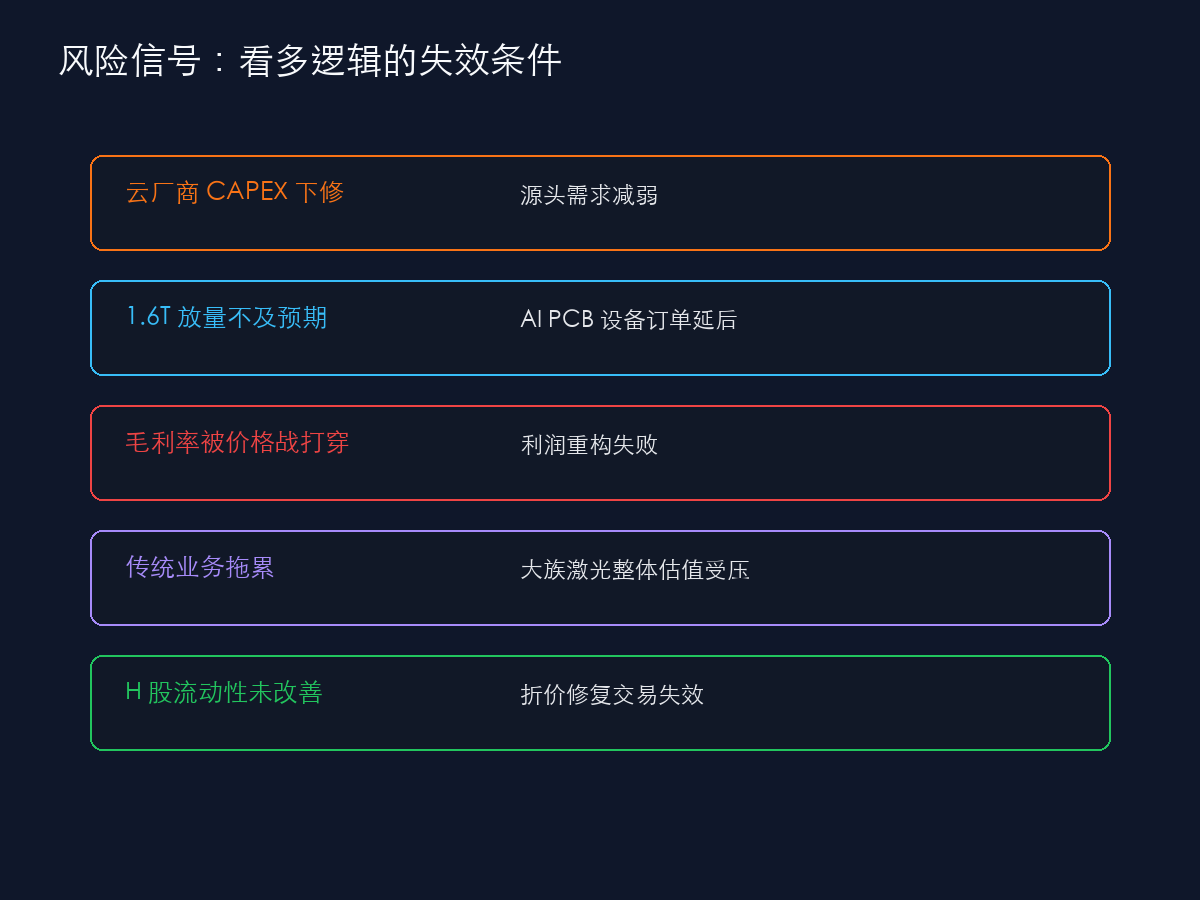
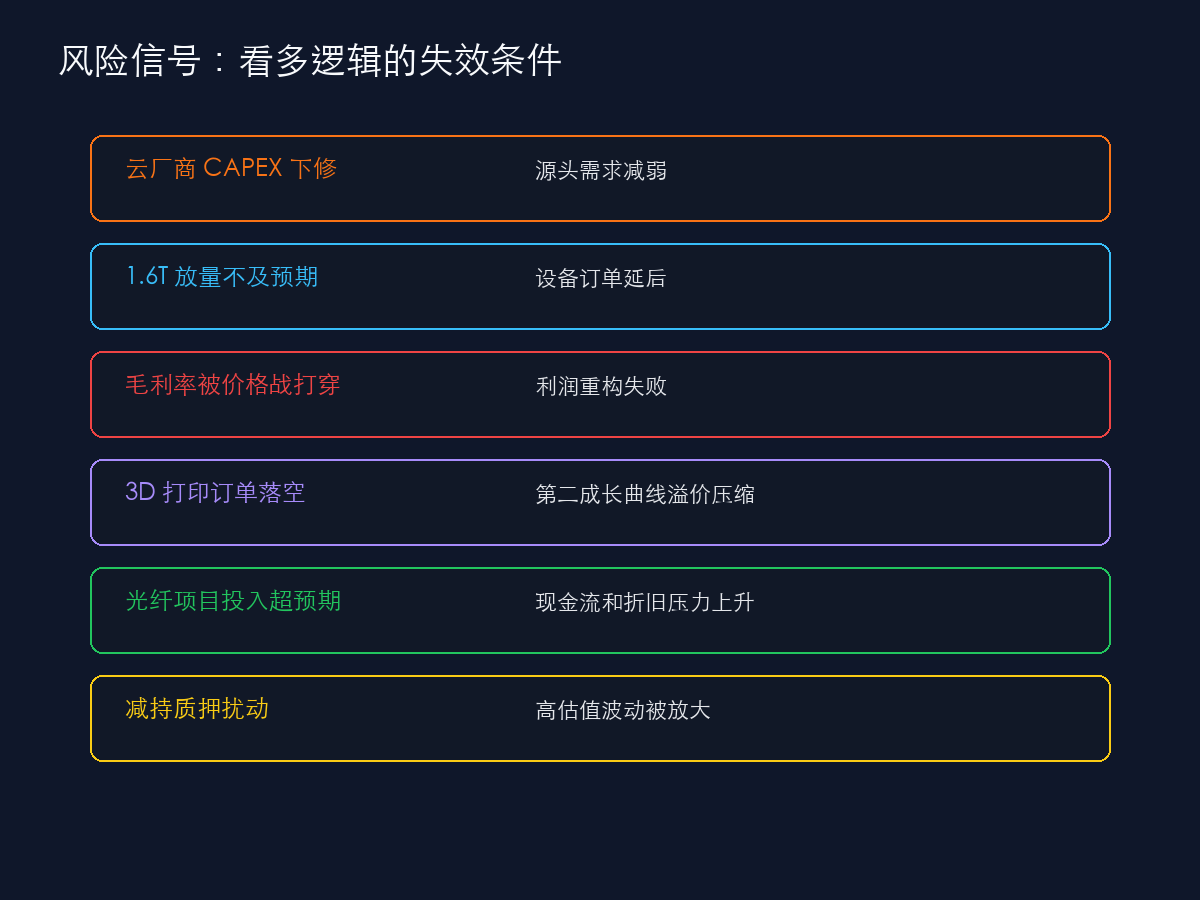
Expand Hans Laser investment analysis

diff --git a/2026/ai-pcb-equipment-hans-laser-hans-cnc-investment-logic/index.html b/2026/ai-pcb-equipment-hans-laser-hans-cnc-investment-logic/index.html
@@ -1,9 +1,9 @@
 <!DOCTYPE html><html lang="zh-CN"><head>
   <meta charset="utf-8"><meta name="viewport" content="width=device-width,initial-scale=1,viewport-fit=cover">
   <meta name="generator" content="Custom static archive"><title>AI PCB 设备景气再上修：大族激光、大族数控与 1.6T 光模块的物理瓶颈 - zcxGGmu's Blog</title>
-  <meta name="description" content="当市场追逐大模型和 GPU 时，真正决定算力能否落地的物理瓶颈，正在转向 AI PCB、类载板和超快激光钻孔设备。大族数控的利润结构重构、大族激光的 AI+苹果+液冷三重催化，以及 H 股折价修复，是这条交易主线的核心。"><meta name="author" content="zcxGGmu"><meta name="theme-color" content="#f8fafc">
+  <meta name="description" content="当市场追逐大模型和 GPU 时，真正决定算力能否落地的物理瓶颈，正在转向 AI PCB、类载板和超快激光钻孔设备。大族数控的利润结构重构、大族激光的 AI+苹果+液冷三重催化，以及大族激光经营修复、机构上修和估值约束，是这条交易主线的核心。"><meta name="author" content="zcxGGmu"><meta name="theme-color" content="#f8fafc">
   <meta property="og:url" content="https://zcxggmu.github.io/2026/ai-pcb-equipment-hans-laser-hans-cnc-investment-logic/"><meta property="og:site_name" content="zcxGGmu's Blog">
-  <meta property="og:title" content="AI PCB 设备景气再上修：大族激光、大族数控与 1.6T 光模块的物理瓶颈"><meta property="og:description" content="当市场追逐大模型和 GPU 时，真正决定算力能否落地的物理瓶颈，正在转向 AI PCB、类载板和超快激光钻孔设备。大族数控的利润结构重构、大族激光的 AI+苹果+液冷三重催化，以及 H 股折价修复，是这条交易主线的核心。"><meta property="og:locale" content="zh_cn"><meta property="og:type" content="article">
+  <meta property="og:title" content="AI PCB 设备景气再上修：大族激光、大族数控与 1.6T 光模块的物理瓶颈"><meta property="og:description" content="当市场追逐大模型和 GPU 时，真正决定算力能否落地的物理瓶颈，正在转向 AI PCB、类载板和超快激光钻孔设备。大族数控的利润结构重构、大族激光的 AI+苹果+液冷三重催化，以及大族激光经营修复、机构上修和估值约束，是这条交易主线的核心。"><meta property="og:locale" content="zh_cn"><meta property="og:type" content="article">
   <meta name="twitter:card" content="summary_large_image"><link rel="canonical" href="https://zcxggmu.github.io/2026/ai-pcb-equipment-hans-laser-hans-cnc-investment-logic/">
   <link rel="icon" type="image/png" sizes="16x16" href="/images/favicon-16.png"><link rel="icon" type="image/png" sizes="32x32" href="/images/favicon-32.png"><link rel="apple-touch-icon" sizes="180x180" href="/images/favicon-180.png"><link rel="icon" type="image/png" sizes="192x192" href="/images/favicon-192.png">
   <script>(function(){var key="blog-theme";var sidebarKey="blog-sidebar-collapsed";var theme="";try{theme=localStorage.getItem(key)||""}catch(_){}if(theme!=="light"&&theme!=="dark"){theme=window.matchMedia&&window.matchMedia("(prefers-color-scheme: dark)").matches?"dark":"light";}document.documentElement.dataset.theme=theme;document.documentElement.style.colorScheme=theme;try{if(localStorage.getItem(sidebarKey)==="1") document.documentElement.classList.add("sidebar-collapsed");}catch(_){}})();</script>
@@ -16,7 +16,7 @@
 <div id="drawer-overlay" class="single-column-drawer-overlay" style="display:none" role="button" tabindex="0" aria-label="关闭菜单" onclick="toggleDrawer()" onkeydown="(event.key===&quot;Enter&quot;||event.key===&quot; &quot;||event.key===&quot;Escape&quot;)&amp;&amp;(event.preventDefault(),toggleDrawer())"></div>
 <nav id="navBar" class="navbar sticky-top navbar-light single-column-nav-container"><div id="navBackground" class="nav-background"></div><div class="container container-narrow nav-content"><button id="nav_dropdown_btn" class="nav-dropdown-toggle" type="button" aria-label="打开菜单" aria-expanded="false" onclick="toggleDrawer()"><span class="nav-menu-symbol" aria-hidden="true">☰</span></button><a id="navTitle" class="navbar-brand" href="/">zcxGGmu's Blog</a><button class="theme-toggle theme-toggle-mobile" type="button" data-theme-toggle title="切换深色模式" aria-label="切换深色模式" aria-pressed="false"><span class="material-icons theme-toggle-icon" aria-hidden="true">dark_mode</span></button></div></nav>
 <div class="single-column-header-container" id="pageHead"><a href="/"><img class="mobile-site-avatar" src="/images/avatar.png" alt="zcxGGmu" loading="lazy"><div class="single-column-header-title">zcxGGmu's Blog</div><div class="single-column-header-subtitle">心无挂碍，无挂碍故，无有恐怖</div></a></div>
-<div id="content"><div id="streamContainer" class="stream-container" role="main"><div id="main-content"></div><div class="post-list-container post-list-container-shadow"><article class="post"><div class="post-head-wrapper" style="background-image:url('/images/posts/ai-pcb-equipment-hans-laser-hans-cnc-investment-logic/cover.png')"><div class="post-title">AI PCB 设备景气再上修：大族激光、大族数控与 1.6T 光模块的物理瓶颈<div class="post-subtitle">当市场追逐大模型和 GPU 时，真正决定算力能否落地的物理瓶颈，正在转向 AI PCB、类载板和超快激光钻孔设备。大族数控的利润结构重构、大族激光的 AI+苹果+液冷三重催化，以及 H 股折价修复，是这条交易主线的核心。</div><div class="post-meta"><time itemprop="datePublished">2026-06-26</time>&nbsp;&nbsp;<span class="meta-icon" aria-hidden="true">▣</span> <a href="/categories/%E6%8A%95%E8%B5%84/">投资</a>&nbsp;&nbsp;<span class="meta-icon" aria-hidden="true">◇</span> <a href="/tags/AI%E7%A1%AC%E4%BB%B6/">AI硬件</a>&nbsp;<a href="/tags/PCB%E8%AE%BE%E5%A4%87/">PCB设备</a>&nbsp;<a href="/tags/%E5%A4%A7%E6%97%8F%E6%BF%80%E5%85%89/">大族激光</a>&nbsp;<a href="/tags/%E5%A4%A7%E6%97%8F%E6%95%B0%E6%8E%A7/">大族数控</a>&nbsp;<a href="/tags/1.6T%E5%85%89%E6%A8%A1%E5%9D%97/">1.6T光模块</a>&nbsp;<a href="/tags/%E6%BF%80%E5%85%89%E9%92%BB%E5%AD%94/">激光钻孔</a>&nbsp;<a href="/tags/%E8%8B%B9%E6%9E%9C%E4%BA%A7%E4%B8%9A%E9%93%BE/">苹果产业链</a>&nbsp;<a href="/tags/%E6%B6%B2%E5%86%B7/">液冷</a>&nbsp;<a href="/tags/%E6%B8%AF%E8%82%A1%E6%8A%98%E4%BB%B7/">港股折价</a>&nbsp;<a href="/tags/%E6%8A%95%E8%B5%84%E5%88%86%E6%9E%90/">投资分析</a>&nbsp;&nbsp;<span class="meta-icon" aria-hidden="true">◷</span> 16 min</div></div></div><div class="post-body-wrapper"><div class="post-body" v-pre>
+<div id="content"><div id="streamContainer" class="stream-container" role="main"><div id="main-content"></div><div class="post-list-container post-list-container-shadow"><article class="post"><div class="post-head-wrapper" style="background-image:url('/images/posts/ai-pcb-equipment-hans-laser-hans-cnc-investment-logic/cover.png')"><div class="post-title">AI PCB 设备景气再上修：大族激光、大族数控与 1.6T 光模块的物理瓶颈<div class="post-subtitle">当市场追逐大模型和 GPU 时，真正决定算力能否落地的物理瓶颈，正在转向 AI PCB、类载板和超快激光钻孔设备。大族数控的利润结构重构、大族激光的 AI+苹果+液冷三重催化，以及大族激光经营修复、机构上修和估值约束，是这条交易主线的核心。</div><div class="post-meta"><time itemprop="datePublished">2026-06-26</time>&nbsp;&nbsp;<span class="meta-icon" aria-hidden="true">▣</span> <a href="/categories/%E6%8A%95%E8%B5%84/">投资</a>&nbsp;&nbsp;<span class="meta-icon" aria-hidden="true">◇</span> <a href="/tags/AI%E7%A1%AC%E4%BB%B6/">AI硬件</a>&nbsp;<a href="/tags/PCB%E8%AE%BE%E5%A4%87/">PCB设备</a>&nbsp;<a href="/tags/%E5%A4%A7%E6%97%8F%E6%BF%80%E5%85%89/">大族激光</a>&nbsp;<a href="/tags/%E5%A4%A7%E6%97%8F%E6%95%B0%E6%8E%A7/">大族数控</a>&nbsp;<a href="/tags/1.6T%E5%85%89%E6%A8%A1%E5%9D%97/">1.6T光模块</a>&nbsp;<a href="/tags/%E6%BF%80%E5%85%89%E9%92%BB%E5%AD%94/">激光钻孔</a>&nbsp;<a href="/tags/%E8%8B%B9%E6%9E%9C%E4%BA%A7%E4%B8%9A%E9%93%BE/">苹果产业链</a>&nbsp;<a href="/tags/%E6%B6%B2%E5%86%B7/">液冷</a>&nbsp;<a href="/tags/3D%E6%89%93%E5%8D%B0/">3D打印</a>&nbsp;<a href="/tags/%E5%85%89%E7%BA%A4%E9%A2%84%E5%88%B6%E6%A3%92/">光纤预制棒</a>&nbsp;<a href="/tags/%E7%A0%94%E6%8A%A5%E6%A2%B3%E7%90%86/">研报梳理</a>&nbsp;<a href="/tags/%E6%B8%AF%E8%82%A1%E6%8A%98%E4%BB%B7/">港股折价</a>&nbsp;<a href="/tags/%E6%8A%95%E8%B5%84%E5%88%86%E6%9E%90/">投资分析</a>&nbsp;&nbsp;<span class="meta-icon" aria-hidden="true">◷</span> 28 min</div></div></div><div class="post-body-wrapper"><div class="post-body" v-pre>
 <p><img src="/images/posts/ai-pcb-equipment-hans-laser-hans-cnc-investment-logic/cover.png" alt="AI PCB 设备景气再上修：大族激光、大族数控与 1.6T 光模块的物理瓶颈"></p>
 <p>科技板块最热闹的舞台，仍然被大语言模型、万亿参数、GPU、英伟达新芯片和算力集群占据。表面上看，所有资金都在追逐这些聚光灯下的明星资产；但如果把视角往产业链上游移动，会发现真正聪明的筹码并没有只挤在舞台中央，而是在寻找那些给大模型搭建舞台的人。</p>
 <p>AI 交易的下一层预期差，藏在更不起眼的制造环节里：高阶 PCB、类载板、1.6T 光模块、超快激光钻孔设备，以及能解决微米级加工瓶颈的高端电子装备。市场并不是突然对“打孔机”感兴趣，而是因为算力要落地，最终必须经过电路板、光模块和精密制造这些物理入口。</p>
@@ -52,7 +52,7 @@
 <p>传统机械钻孔设备单价大约 50 万元人民币，毛利率通常在 20% 左右，本质上是偏成熟、偏竞争、偏制造效率的辛苦钱。超快激光钻孔设备完全不同，单台价格可以提升到 500 万到 600 万元人民币，价格带约为传统设备的 10 倍，毛利率则可达到 50% 左右。</p>
 <p><img src="/images/posts/ai-pcb-equipment-hans-laser-hans-cnc-investment-logic/margin-shift.png" alt="机械钻孔设备与超快激光钻孔设备利润结构对比"></p>
 <p>这就是财务模型上的“换公司”。如果收入仍然以传统机械设备为主，估值只能按成熟设备公司给；如果未来收入越来越多来自高壁垒、高单价、高毛利的 AI 相关设备，市场就会按高端科技制造重新定价。</p>
-<p>当然，高毛利一定会引来竞争。中国制造业里，任何 50% 毛利的赛道都不可能长期无人问津。真正的问题是：竞争者能不能快速复制稳定出货能力。超快激光设备的壁垒在于底层 Know-how、客户验证、工艺窗口、控制系统和长期试错，这些都不是短期资本开支可以迅速堆出来的。</p>
+<p>当然，高毛利往往会引来竞争。中国制造业里，任何 50% 毛利的赛道都不可能长期无人问津。真正的问题是：竞争者能不能快速复制稳定出货能力。超快激光设备的壁垒在于底层 Know-how、客户验证、工艺窗口、控制系统和长期试错，这些都不是短期资本开支可以迅速堆出来的。</p>
 
 <h2 id="大族数控">大族数控：AI 相关设备占比提升后的再定价</h2>
 <p>大族数控的变化，可以用一个指标来理解：AI 相关设备占 PCB 设备收入的比例。公开研报摘要里提到，AI 相关设备占大族数控 PCB 设备总收入的比例，有望从 2024 年不到 10% 提升到 2027 年约 70%。</p>
@@ -68,6 +68,74 @@
 <p>第三条催化是液冷制造。AI 服务器功耗不断上升，B 系列、后续高功率 GPU 和高密度机柜推动液冷成为新一代数据中心的刚性需求。液冷冷板内部微通道需要高精度无缝焊接，任何砂眼、虚焊或泄漏都可能在昂贵机柜里造成灾难。大族激光在精密激光焊接上的积累，使其有机会切入液冷冷板等高精度制造环节。</p>
 <p>这三条线叠加后，大族激光不只是跟随 PCB 设备景气，而是形成 AI 硬件制造、消费电子创新和数据中心热管理的复合暴露。花旗给出 177 元人民币目标价，并用约 55 倍 2027 年预期市盈率作为估值参考，本质上是在押注类似上一轮苹果超级周期的估值重估重演。</p>
 
+<h2 id="公司画像">公司画像：平台型激光装备集团，而不是单一 PCB 弹性</h2>
+<p><img src="/images/posts/ai-pcb-equipment-hans-laser-hans-cnc-investment-logic/hans-laser-business-map.png" alt="大族激光业务地图"></p>
+<p>研究大族激光，不能只把它看成“大族数控的控股平台”，也不能只看成普通激光加工设备公司。公司 2025 年年报把自身定位为智能制造装备及关键器件供应商，能力覆盖基础器件、整机设备到工艺解决方案，业务横跨信息产业设备、新能源设备、半导体设备和通用工业激光加工设备。</p>
+<p>这种平台型结构带来两个完全相反的投资含义。正面看，大族激光可以同时暴露在 AI PCB、消费电子创新、液冷焊接、锂电海外扩产、半导体设备国产化等多条产业链上；负面看，它也不是纯粹的 AI PCB 标的，传统业务、资本开支、股权投资收益、减值、控股股东减持和市场风险偏好都会影响整体估值。</p>
+<p>从 2025 年收入结构看，信息产业设备是最重要的增长引擎，收入约 82.45 亿元，同比增长 50.28%；其中消费电子设备约 24.72 亿元，同比增长 15.33%，PCB 设备约 57.73 亿元，同比增长 72.68%。新能源设备收入约 23.61 亿元，同比增长 53.36%，其中锂电设备约 22.56 亿元，同比增长 49.65%；半导体设备及泛半导体相关收入约 20.41 亿元，同比增长 15.00%。这组数据说明，市场交易 AI PCB 并不是无源之水，PCB 设备已经是公司收入修复中最亮的分部之一。</p>
+<p>因此，大族激光的核心问题不是“有没有 AI 概念”，而是 2026-2028 年能否把 AI PCB、3D 打印、液冷和半导体设备的订单转化为持续利润，同时避免新能源设备和传统业务周期拖累集团估值。</p>
+
+<h2 id="财务修复">财务修复：2025 扣非修复，2026Q1 进入高增长验证期</h2>
+<p><img src="/images/posts/ai-pcb-equipment-hans-laser-hans-cnc-investment-logic/hans-laser-financial-dashboard.png" alt="大族激光财务修复仪表盘"></p>
+<p>2025 年，大族激光实现营业收入 187.59 亿元，同比增长 27.00%；归母净利润 11.90 亿元，同比下降 29.77%；扣非归母净利润 8.10 亿元，同比增长 82.28%；经营活动现金流净额 14.69 亿元，同比增长 30.48%。表面看，归母利润下滑会让人迟疑，但扣非利润和经营现金流的修复更能解释机构为什么在 2026 年密集覆盖。</p>
+<p>归母净利润下降，主要让投资者意识到公司过去利润中有非经常性因素和股权处置收益影响，不能简单按表观归母利润外推。扣非利润增长 82.28%，则说明主营经营质量在修复；经营现金流增长 30.48%，说明修复不只是会计利润。</p>
+<p>2026 年一季报进一步强化了这个方向。公司 2026Q1 营业收入 51.35 亿元，同比增长 74.44%；归母净利润 3.54 亿元，同比增长 116.59%；扣非归母净利润 4.08 亿元，同比增长 467.81%。如果只看单季，同比基数、订单交付节奏和费用确认都会造成波动，但这一季度至少说明两点：第一，收入恢复已经进入较强交付期；第二，扣非利润的弹性显著强于收入弹性，说明业务结构和费用摊薄正在改善。</p>
+<p>需要同时看到的约束是，2026Q1 经营活动现金流净额约为 -7.16 亿元。设备公司在订单高增长阶段往往会出现备货、应收、预付和项目验收错配，现金流短期承压并不罕见，但如果这种压力连续多个季度扩大，就会削弱利润质量。因此，后续跟踪不能只看收入和利润，也要看合同负债、存货、应收账款、回款和经营现金流。</p>
+<p>截至 2026 年 6 月 26 日收盘，大族激光股价 151.27 元，单日高点 168.08 元、低点 151.00 元，成交额约 199.61 亿元；第三方行情页面显示总市值约 1557.5 亿元，市盈率口径在 110 倍以上，市净率约 6.4 倍。这个估值已经不再便宜，市场显然不是按 2025 年静态利润给价，而是在提前折现 2026-2028 年 AI PCB、3D 打印和液冷的成长。</p>
+
+<h2 id="机构研报">机构研报：最近两个月的国内券商共识与分歧</h2>
+<p><img src="/images/posts/ai-pcb-equipment-hans-laser-hans-cnc-investment-logic/hans-laser-broker-matrix.png" alt="大族激光近期香港内机构研报矩阵"></p>
+<p>2026 年 4 月以来，大族激光的国内机构覆盖明显升温。公开可见的研报摘要显示，天风证券、招商证券、东吴证券、国海证券、长江证券、中邮证券、中金公司、国盛证券、申万宏源、浙商证券、方正证券、中信建投、国泰海通等机构均围绕公司发布报告或更新观点，评级大多落在买入、强烈推荐、推荐、增持区间。</p>
+<p>这些报告的共同主线非常集中：AI 算力推动 PCB 设备升级，消费电子大客户创新周期与 3D 打印提供第二成长曲线，液冷和半导体设备提供可选项。分歧主要不在方向，而在利润弹性和估值兑现速度。</p>
+<table>
+<thead><tr><th>机构</th><th>日期</th><th>评级</th><th>公开可见盈利预测</th><th>核心观点</th></tr></thead>
+<tbody>
+<tr><td>天风证券</td><td>2026-06-16</td><td>增持</td><td>2026-2028E EPS 2.53 / 3.91 / 5.20 元</td><td>激光平台型龙头，AI 算力与苹果 3D 打印双轮驱动。</td></tr>
+<tr><td>招商证券</td><td>2026-05-27</td><td>维持强烈推荐</td><td>公开摘要未披露完整 EPS</td><td>战略收购液冷方案商安腾创新，算力基础设施布局加深。</td></tr>
+<tr><td>东吴证券</td><td>2026-05-20</td><td>买入，首次覆盖</td><td>2026-2028E EPS 2.21 / 3.31 / 4.25 元</td><td>PCB 设备和 3D 打印贡献新成长活力。</td></tr>
+<tr><td>国海证券</td><td>2026-05-07</td><td>买入</td><td>2026-2028E EPS 2.43 / 3.53 / 4.46 元</td><td>2026Q1 业绩高速增长，消费电子与算力业务共振。</td></tr>
+<tr><td>中邮证券</td><td>2026-04-23</td><td>买入，首次覆盖</td><td>2026-2028E EPS 2.25 / 3.20 / 4.57 元</td><td>信息产业设备、AI PCB、消费电子、新能源与半导体设备共同支撑。</td></tr>
+<tr><td>中金公司</td><td>2026-04-21</td><td>买入</td><td>2026-2027E EPS 2.23 / 3.16 元</td><td>一季度扣非利润略超预期，多业务受益 AI 浪潮。</td></tr>
+<tr><td>申万宏源</td><td>2026-04-21</td><td>买入</td><td>2026-2028E EPS 2.41 / 3.45 / 4.43 元</td><td>扣非利润修复，持续看好 AI PCB 与 3C 高增。</td></tr>
+<tr><td>国泰海通</td><td>2026-04-13</td><td>买入</td><td>2026-2028E EPS 2.27 / 3.38 / 4.02 元</td><td>激光龙头乘势而上，AI 开启增长新引擎。</td></tr>
+</tbody>
+</table>
+<p>从可见预测看，机构对 2026 年归母净利润的预期大致落在 18 亿元到 26 亿元区间，2028 年高端预期超过 50 亿元。这个分歧很关键：如果只兑现低端预测，当前估值会显得偏贵；如果 AI PCB、3D 打印和液冷同步兑现，市场才有理由继续用高成长设备股的估值体系定价。</p>
+<p>因此，券商共识可以作为景气度证据，但不能直接当成买入理由。真正要验证的是三件事：订单是否进入报表，毛利率是否随产品结构改善，现金流是否跟上利润增长。</p>
+
+<h2 id="海外证据">海外证据：花旗直接上修，全球机构更多验证产业链</h2>
+<p><img src="/images/posts/ai-pcb-equipment-hans-laser-hans-cnc-investment-logic/hans-laser-overseas-evidence.png" alt="海外机构与全球行业证据"></p>
+<p>海外机构对大族激光的直接覆盖，公开可见材料并不算多。相对清晰的是花旗。公开摘要显示，花旗在 2026 年 6 月下旬把大族激光目标价由 155 元上调至 177 元，并维持买入评级；更早的 6 月摘要中，花旗也曾把目标价从 103 元上调至 155 元。花旗的逻辑与本文主线一致：AI PCB 设备仍处在结构性上行早期，1.6T 光模块推动高端类载板需求，超快激光钻孔设备供应紧张，海外供应商产能约束为国内设备商创造外溢机会。</p>
+<p>除花旗外，美银、高盛、摩根士丹利等机构更容易找到的是产业链层面的公开证据，而不是大族激光的直接公司报告。这个区别很重要：海外机构的行业证据可以增强产业方向的可信度，但不能直接替代公司订单和财务验证。</p>
+<p>摩根士丹利在公开行业摘要中把关注点从光模块本体进一步推向光模块内的 PCB，强调 800G、1.6T、3.2T 升级会推高 PCB 单价和技术门槛。Prismark 的 2026 年公开更新显示，全球裸板 PCB 市场从 2024 年约 736 亿美元增长到 2025 年约 858 亿美元，驱动因素包括 AI 服务器、高速网络和先进封装基板。TrendForce 相关摘要预计 AI 光收发模块市场将从 2025 年约 165 亿美元增长到 2026 年约 260 亿美元。LightCounting 也指出 AI 集群光学需求将在 2024-2026 年显著扩张。</p>
+<p>这些材料共同指向同一个产业事实：AI 基础设施不是只买 GPU，它会持续拉动光模块、PCB、封装、散热和精密加工设备。大族激光的机会就在于，它处在这些物理制造环节的交汇处。</p>
+<p>液冷方向也有类似证据。高密度 AI 机柜需要液冷来提高算力密度并降低空间压力，第三方市场机构预计数据中心液冷市场在 2026-2033 年仍有较高复合增长。大族激光通过安腾创新切入液冷方案，逻辑上补齐了从激光焊接设备到数据中心热管理制造的想象空间。不过，这条线仍处在需要订单和利润验证的阶段，不能把行业空间直接等同于公司利润。</p>
+
+<h2 id="光纤项目">光纤项目：光纤及预制棒项目是可选项，不是短期利润锚</h2>
+<p><img src="/images/posts/ai-pcb-equipment-hans-laser-hans-cnc-investment-logic/hans-laser-fiber-project.png" alt="大族激光光纤及预制棒项目分析"></p>
+<p>2026 年 6 月 26 日，大族激光公告控股子公司杭州永通智造与张家港大族拟在张家港投资建设光纤及预制棒项目，总投资不超过 25.20 亿元，其中一期 15.20 亿元、二期 10.00 亿元。项目规划用地约 172 亩，一期拟形成 1200 吨预制棒/合成石英和 3600 万芯公里通信光纤产能，产品包含空芯光纤；二期拟新增 800 吨预制棒/合成石英和 2400 万芯公里通信光纤产能。</p>
+<p>从产业位置看，空芯光纤、预制棒、通信光纤与 AI 数据中心互连、高速通信和光网络升级存在潜在相关性。如果未来低时延、高带宽数据中心网络继续扩张，相关材料和光通信基础环节可能出现新机会。</p>
+<p>但投资分析必须把节奏说清楚。公司公告同时披露，2025 年光纤业务收入约 4070.61 万元，占公司总收入 0.22%，利润约为 -6927.96 万元。也就是说，这个项目不是当前利润的核心来源，而是公司为未来光通信材料和光纤技术做的长期布局。25.20 亿元投资规模不小，短期更可能体现为资本开支、建设周期和不确定性，而不是立刻增厚利润。</p>
+<p>因此，对光纤及预制棒项目应采用“期权估值”而不是“业绩估值”。如果后续出现明确客户、产能爬坡、良率改善、空芯光纤订单和盈利拐点，它会成为公司新的成长叙事；如果建设进度、需求或成本不及预期，则可能成为现金流和折旧压力。</p>
+
+<h2 id="投资价值">投资价值：四条成长线与两条估值约束</h2>
+<p><img src="/images/posts/ai-pcb-equipment-hans-laser-hans-cnc-investment-logic/hans-laser-investment-thesis.png" alt="大族激光投资价值框架"></p>
+<p>综合公司公告、财务数据和机构观点，大族激光的投资价值可以拆成四条成长线。</p>
+<p>第一条是 AI PCB 设备。它是当前确定性最高、机构共识最强的主线。AI 服务器、1.6T 光模块、高阶 PCB 和类载板共同推动超快激光钻孔、检测、曝光、成型等设备需求上修，大族数控和大族激光均受益。</p>
+<p>第二条是消费电子创新与 3D 打印。苹果折叠屏、钛合金结构件、复杂铰链和新材料加工方向仍带有供应链传闻属性，但如果终端创新周期兑现，设备更新弹性会明显放大。大族激光过去长期服务消费电子精密加工，具备被重新定价的历史记忆。</p>
+<p>第三条是液冷与数据中心热管理制造。高功耗 AI 服务器推动液冷从可选方案走向刚需，冷板焊接、微通道加工、密封检测和整体方案能力都需要更高工艺门槛。大族激光通过液冷方案布局，把自身从设备供应商向部分解决方案环节延伸。</p>
+<p>第四条是平台型可选项，包括半导体设备、锂电海外扩产、光纤及预制棒、通用激光修复等。这些业务未必同一时间爆发，但平台型公司最大的价值在于多个小拐点可能叠加成集团级利润改善。</p>
+<p>同时，估值也有两条硬约束。第一，当前市值已提前反映大量乐观预期。按 2026 年 6 月 26 日约 151 元股价和约 1550 亿元市值计算，即使采用机构 2026 年 18-26 亿元净利润预测，对应市盈率也大约在 60-85 倍区间；如果利润兑现偏低，估值压力会很直接。第二，公司不是纯 AI 标的，传统业务、股东减持、质押、资本开支和项目执行都会影响风险溢价。</p>
+
+<h2 id="买入策略">买入策略：用兑现条件分批，而不是追逐单日目标价</h2>
+<p><img src="/images/posts/ai-pcb-equipment-hans-laser-hans-cnc-investment-logic/hans-laser-buy-strategy.png" alt="大族激光分批买入策略"></p>
+<p>大族激光现在更适合用“右侧确认加回撤分批”的策略，而不是在情绪高点一次性重仓。原因很简单：产业方向强，但估值也高；机构上修快，但股价已经提前反应；订单弹性大，但现金流和毛利率仍需验证。</p>
+<p>第一档，观察仓。适用于看好 AI PCB 和 3D 打印长期方向，但还没有看到连续季度兑现的投资者。观察仓的意义不是赚满，而是建立跟踪纪律：每个季度都对照订单、收入、毛利率、扣非利润和现金流。</p>
+<p>第二档，回撤加仓。若股价因市场波动、短期减持、情绪降温出现明显回撤，但公司同时披露 AI PCB 设备订单、3D 打印订单、液冷订单或大族数控高端设备收入占比继续提升，则回撤比追高更有性价比。这里的关键不是便宜，而是“基本面没有变坏但价格变低”。</p>
+<p>第三档，业绩确认加仓。若 2026 中报或三季报继续出现收入高增长、扣非利润增速高于收入、毛利率改善、经营现金流修复，就说明 2026Q1 不是偶发交付，而是进入持续兑现阶段。这个时候即使股价不便宜，也可以按确定性提升来提高仓位。</p>
+<p>第四档，估值纪律。若股价继续快速上涨，但机构盈利预测没有同步上修、订单没有新证据、毛利率没有改善，就应降低追高意愿。成长股最危险的阶段不是逻辑错误，而是逻辑正确但价格已经透支。</p>
+<p>止损或减仓条件也要提前写清楚：1.6T 光模块和 AI PCB 扩产节奏下修；超快激光设备毛利率明显低于预期；3D 打印或消费电子创新订单落空；液冷并购不能形成收入协同；经营现金流连续恶化；控股股东减持或质押风险扰动加剧；光纤预制棒项目资本开支压力显著超出预期。只要这些变量同时出现两项以上，就不能再只用“长期空间大”来解释短期风险。</p>
+
 <h2 id="交易结构">交易结构：A/H 估值差与 H 股流动性修复</h2>
 <p>大族数控还有一个非常重要的交易结构：同一家公司同时存在 A 股和 H 股，基本面相同，但估值差异显著。公开研报摘要提到，大族数控 H 股相较 A 股存在超过 50% 的折价；花旗对 A 股评级偏中性，原因是估值已经较满，而对 H 股给出买入评级，因为 H 股市盈率更低、折价更大。</p>
 <p><img src="/images/posts/ai-pcb-equipment-hans-laser-hans-cnc-investment-logic/ah-trading-structure.png" alt="大族数控 A/H 估值差与流动性修复"></p>
@@ -81,7 +149,11 @@
 <p>第二，1.6T 光模块放量不及预期。如果高速光模块迭代节奏放慢，类载板和超快激光钻孔设备需求也会推迟，市场对 2026-2027 年利润弹性的预期需要下修。</p>
 <p>第三，零部件成本上升或价格战加剧。超快激光钻孔设备当前的核心吸引力在于高 ASP 和高毛利率。如果竞争快速恶化，把 50% 左右毛利率打下来，估值重构逻辑就会被削弱。</p>
 <p>第四，大族激光的新能源汽车、高功率设备等传统业务拖累整体估值。大族激光不是纯 AI PCB 标的，如果汽车销量、动力电池设备或其他高功率设备订单疲软，可能抵消 AI 和苹果链条的积极影响。</p>
-<p>第五，H 股解禁后没有带来流动性改善。如果 2026 年 8 月之后 H 股成交没有放大、机构资金没有进入、折价没有收敛，那么“流动性修复”交易就需要重新评估。</p>
+<p>第五，消费电子和 3D 打印订单落空。苹果创新周期仍有供应链不确定性，若折叠屏、铰链、钛合金结构件或相关设备订单没有兑现，市场给予的第二成长曲线溢价会被压缩。</p>
+<p>第六，液冷并购协同低于预期。安腾创新能够带来数据中心液冷方案入口，但方案商能力、客户导入、毛利率和回款都需要验证。液冷行业空间大，并不自动等同于公司利润大。</p>
+<p>第七，光纤及预制棒项目资本开支压力。25.20 亿元投资规模较大，而 2025 年光纤业务收入占比只有 0.22%、仍处亏损状态。若建设周期拉长、需求低于预期或产能爬坡慢，短期会带来折旧、现金流和盈利压力。</p>
+<p>第八，股东减持、质押和估值扰动。2026 年 6 月，公司披露控股股东及部分董事、高管减持计划；控股股东也存在股份质押与到期融资安排。公告口径下未触发控制权风险，但对高估值成长股而言，这类事件容易放大波动。</p>
+<p>第九，H 股解禁后没有带来流动性改善。如果 2026 年 8 月之后大族数控 H 股成交没有放大、机构资金没有进入、折价没有收敛，那么“流动性修复”交易就需要重新评估。</p>
 <p><img src="/images/posts/ai-pcb-equipment-hans-laser-hans-cnc-investment-logic/risk-dashboard.png" alt="AI PCB 设备投资风险信号"></p>
 
 <h2 id="寻找瓶颈">寻找瓶颈：沿着 AI 硬件毛细血管继续追踪</h2>
@@ -89,13 +161,20 @@
 <p>这一次，瓶颈从算力芯片扩散到 1.6T 光模块，再扩散到高阶 PCB 和超快激光钻孔设备。下一次，瓶颈可能出现在散热材料、液冷冷板、精密焊接、连接器、铜缆、玻璃基板、先进封装、测试设备，或者某个看起来不起眼但决定良率的组装工艺。</p>
 <p>产业链越复杂，真正的投资机会越可能出现在“非共识但关键”的位置。舞台中央的明星被所有人看见，估值往往很快充分；搭舞台、铺线路、解决散热、提高良率的公司，反而可能在某个节点迎来更强的预期差。</p>
 
+<h2 id="资料口径">资料口径与跟踪清单</h2>
+<p><img src="/images/posts/ai-pcb-equipment-hans-laser-hans-cnc-investment-logic/hans-laser-tracking-checklist.png" alt="大族激光后续跟踪清单"></p>
+<p>本文使用的信息主要来自公司 2025 年年报、2026 年一季报、2026 年 6 月减持与质押相关公告、2026 年 6 月光纤及预制棒投资公告、公开行情页面，以及近两个月国内外机构研报的公开标题、评级、盈利预测和摘要级信息。研报部分只用于归纳公开可见观点，不复刻研报正文。</p>
+<p>核心公开资料包括：<a href="https://static.cninfo.com.cn/finalpage/2026-04-17/1225114032.PDF" target="_blank" rel="noopener">大族激光 2025 年年度报告</a>、<a href="https://static.cninfo.com.cn/finalpage/2026-04-21/1225124464.PDF" target="_blank" rel="noopener">2026 年一季度报告</a>、<a href="https://static.cninfo.com.cn/finalpage/2026-06-06/1225355514.PDF" target="_blank" rel="noopener">股东及董监高减持预披露公告</a>、<a href="https://static.cninfo.com.cn/finalpage/2026-06-26/1225389083.PDF" target="_blank" rel="noopener">光纤及预制棒项目投资公告</a>、花旗目标价调整的公开媒体摘要、国内券商研报公开摘要，以及 Prismark、TrendForce、LightCounting、Goldman Sachs、NVIDIA 等公开行业资料。</p>
+<p>后续跟踪应聚焦八个指标：第一，大族数控 AI 相关设备收入占比和高端设备毛利率；第二，大族激光信息产业设备收入与毛利率；第三，3D 打印和消费电子创新订单是否落地；第四，液冷业务是否形成收入和利润贡献；第五，2026 中报和三季报扣非利润是否持续高于收入增速；第六，经营现金流是否从一季度负值修复；第七，光纤及预制棒项目的客户、建设和资本开支节奏；第八，控股股东减持、质押到期和大族数控 H 股流动性变化。</p>
+<p>只要这些指标中的多数继续向好，大族激光仍可被视为 AI 硬件制造瓶颈扩散中的核心装备平台；如果这些指标开始背离，尤其是利润、现金流和订单不能同时兑现，就要降低估值容忍度。</p>
+
 <h2 id="结论">结论</h2>
 <p>AI 设备景气上修的核心，不是简单把所有带 AI 的公司都买一遍，而是找出 AI 硬件扩张中最硬的物理约束。1.6T 光模块推动高阶 PCB 和类载板进入微米级加工时代，机械钻孔逐渐无法满足要求，超快激光钻孔设备成为关键设备环节。</p>
-<p>大族数控的核心变化，是 AI 相关设备占比提升带来的收入结构、毛利率和估值锚重构；大族激光的核心变化，是 AI PCB、苹果硬件创新周期和液冷焊接制造形成三重催化；大族数控 H 股的核心交易点，则是折价和流动性修复是否能在解禁后同时发生。</p>
-<p>这条主线值得跟踪，但买入逻辑必须绑定验证指标：北美云厂商资本开支、1.6T 光模块订单、超快激光设备毛利率、大族数控 AI 设备收入占比、大族激光苹果链和液冷订单、H 股成交和折价收敛。只有这些变量持续兑现，估值上修才有基本面支撑。</p>
+<p>大族数控的核心变化，是 AI 相关设备占比提升带来的收入结构、毛利率和估值锚重构；大族激光的核心变化，则是平台型激光装备集团在 AI PCB、消费电子 3D 打印、液冷制造、半导体设备和光通信材料上的多线暴露。2025 年扣非利润修复、2026Q1 高增长和机构密集覆盖，说明市场已经开始把公司从传统周期设备股重新定价为 AI 硬件制造瓶颈平台。</p>
+<p>但估值上修不是免费的。按 2026 年 6 月 26 日约 1550 亿元市值计算，市场已经对未来两到三年的利润增长给出较高预期。后续买入逻辑必须绑定验证指标：北美云厂商资本开支、1.6T 光模块订单、超快激光设备毛利率、大族数控 AI 设备收入占比、大族激光 3D 打印和液冷订单、经营现金流修复、光纤项目投入产出、H 股成交和折价收敛。只有这些变量持续兑现，估值上修才有基本面支撑。</p>
 <p>真正的机会不一定在最热闹的地方。AI 越往深处走，越需要回到物理世界：材料、设备、工艺、良率、散热和连接。谁能解决这些真实瓶颈，谁才可能成为下一轮产业链重估的受益者。</p>
 <p>本文仅作产业逻辑和投资框架梳理，不构成任何投资建议。高成长设备股波动较大，估值对订单、毛利率和风险偏好高度敏感，应结合公开信息、财务数据和个人风险承受能力独立判断。</p>
 </div></div></article></div></div></div>
 <div class="side-container"><div class="nav-head"><a href="/" style="text-decoration:none;color:inherit"><div class="nav-title">🌀zcxGGmu's Blog</div><div class="nav-subtitle">心无挂碍，无挂碍故，无有恐怖</div></a></div><div class="nav-link-list"><a class="a-block nav-link-item active" href="/">文章📖</a><a class="a-block nav-link-item false" href="/categories/">分类📌</a><a class="a-block nav-link-item false" href="/tags/">标签🏷</a><a class="a-block nav-link-item false" href="/series/">系列📚</a><a class="a-block nav-link-item false" href="/archive/">归档📃</a><a class="a-block nav-link-item false" href="/about/">关于👋</a><a class="a-block nav-link-item false" href="/friends/">友链🔗</a><a class="a-block nav-link-item false" href="/index.xml">RSS📢</a></div><div class="nav-footer"><a href="https://github.com/zcxGGmu" target="_blank" rel="noopener noreferrer">GitHub</a><br><a href="mailto:placeholder@example.com">Email</a><br><a href="/index.xml">RSS</a><br><hr>魔改自 <a href="https://github.com/AmazingRise/hugo-theme-diary" target="_blank" rel="noopener noreferrer">Diary</a> by <a href="/">zcxGGmu</a><br>© 2026 zcxGGmu's Blog<br><span>备案信息占位</span></div></div>
-<div id="extraContainer" class="extra-container"><div class="toc-wrapper"><div class="toc"><div class="toc-title">目录</div><nav><a class="toc-link toc-level-2" href="#核心判断">核心判断：AI 交易正在从算力明星转向制造瓶颈</a><a class="toc-link toc-level-2" href="#产业现实">产业现实：1.6T 光模块把 PCB 制造推到物理极限</a><a class="toc-link toc-level-2" href="#工艺切换">工艺切换：机械钻孔失效，超快激光钻孔接棒</a><a class="toc-link toc-level-2" href="#外溢效应">外溢效应：日本供应约束与国产设备接单窗口</a><a class="toc-link toc-level-2" href="#利润重构">利润重构：从 50 万机械设备到 500-600 万激光设备</a><a class="toc-link toc-level-2" href="#大族数控">大族数控：AI 相关设备占比提升后的再定价</a><a class="toc-link toc-level-2" href="#大族激光">大族激光：AI PCB、苹果周期与液冷焊接三重催化</a><a class="toc-link toc-level-2" href="#交易结构">交易结构：A/H 估值差与 H 股流动性修复</a><a class="toc-link toc-level-2" href="#风险信号">风险信号：哪些变量会让看多逻辑失效</a><a class="toc-link toc-level-2" href="#寻找瓶颈">寻找瓶颈：沿着 AI 硬件毛细血管继续追踪</a><a class="toc-link toc-level-2" href="#结论">结论</a></nav></div></div><div class="pagination"><a id="globalBackToTop" class="pagination-action animated-visibility invisible" href="#top"><span class="pagination-action-icon" aria-hidden="true">↑</span></a></div></div>
+<div id="extraContainer" class="extra-container"><div class="toc-wrapper"><div class="toc"><div class="toc-title">目录</div><nav><a class="toc-link toc-level-2" href="#核心判断">核心判断：AI 交易正在从算力明星转向制造瓶颈</a><a class="toc-link toc-level-2" href="#产业现实">产业现实：1.6T 光模块把 PCB 制造推到物理极限</a><a class="toc-link toc-level-2" href="#工艺切换">工艺切换：机械钻孔失效，超快激光钻孔接棒</a><a class="toc-link toc-level-2" href="#外溢效应">外溢效应：日本供应约束与国产设备接单窗口</a><a class="toc-link toc-level-2" href="#利润重构">利润重构：从 50 万机械设备到 500-600 万激光设备</a><a class="toc-link toc-level-2" href="#大族数控">大族数控：AI 相关设备占比提升后的再定价</a><a class="toc-link toc-level-2" href="#大族激光">大族激光：AI PCB、苹果周期与液冷焊接三重催化</a><a class="toc-link toc-level-2" href="#公司画像">公司画像：平台型激光装备集团，而不是单一 PCB 弹性</a><a class="toc-link toc-level-2" href="#财务修复">财务修复：2025 扣非修复，2026Q1 进入高增长验证期</a><a class="toc-link toc-level-2" href="#机构研报">机构研报：最近两个月的国内券商共识与分歧</a><a class="toc-link toc-level-2" href="#海外证据">海外证据：花旗直接上修，全球机构更多验证产业链</a><a class="toc-link toc-level-2" href="#光纤项目">光纤项目：光纤及预制棒项目是可选项，不是短期利润锚</a><a class="toc-link toc-level-2" href="#投资价值">投资价值：四条成长线与两条估值约束</a><a class="toc-link toc-level-2" href="#买入策略">买入策略：用兑现条件分批，而不是追逐单日目标价</a><a class="toc-link toc-level-2" href="#交易结构">交易结构：A/H 估值差与 H 股流动性修复</a><a class="toc-link toc-level-2" href="#风险信号">风险信号：哪些变量会让看多逻辑失效</a><a class="toc-link toc-level-2" href="#寻找瓶颈">寻找瓶颈：沿着 AI 硬件毛细血管继续追踪</a><a class="toc-link toc-level-2" href="#资料口径">资料口径与跟踪清单</a><a class="toc-link toc-level-2" href="#结论">结论</a></nav></div></div><div class="pagination"><a id="globalBackToTop" class="pagination-action animated-visibility invisible" href="#top"><span class="pagination-action-icon" aria-hidden="true">↑</span></a></div></div>
 <div id="single-column-footer"><a href="https://github.com/zcxGGmu" target="_blank" rel="noopener noreferrer">GitHub</a><br><a href="mailto:placeholder@example.com">Email</a><br><a href="/index.xml">RSS</a><br><hr>魔改自 Diary by zcxGGmu<br>© 2026 zcxGGmu's Blog</div></div><script src="/js/journal.js"></script><script src="/js/code-enhance.js"></script></body></html>

diff --git a/tags/index.html b/tags/index.html
@@ -11,7 +11,10 @@
     <div class="nav-link-item"><a href="/index.xml" style="text-decoration:none;color:inherit">RSS📢</a></div>
   </div>
   <div class="nav-footer"><a href="https://github.com/zcxGGmu" target="_blank">GitHub</a>&nbsp;<a href="mailto:placeholder@example.com">Email</a>&nbsp;<a href="/index.xml">RSS</a><br>魔改自 Diary by zcxGGmu<br>© 2026 zcxGGmu's Blog</div>
-</div><div class="extra-container"><div class="pagination"><button class="pagination-action" onclick="history.back()"><span class="material-icons pagination-action-icon">keyboard_arrow_up</span></button></div></div><div class="stream-container"><div class="post-list-container" style="min-height:100vh"><div style="padding:40px 35px"><h1 style="font-size:30px;font-weight:500;margin-bottom:30px">🔖 标签</h1><div style="line-height:2.5"><a href="/tags/%E6%B8%AF%E8%82%A1%E6%8A%98%E4%BB%B7/" style="display:inline-block;margin:5px 8px;padding:4px 12px;background:rgba(25,118,210,0.06);border-radius:4px;font-size:15px">港股折价<span style="color:#999;font-size:12px;margin-left:4px">(1)</span></a>
+</div><div class="extra-container"><div class="pagination"><button class="pagination-action" onclick="history.back()"><span class="material-icons pagination-action-icon">keyboard_arrow_up</span></button></div></div><div class="stream-container"><div class="post-list-container" style="min-height:100vh"><div style="padding:40px 35px"><h1 style="font-size:30px;font-weight:500;margin-bottom:30px">🔖 标签</h1><div style="line-height:2.5"><a href="/tags/%E7%A0%94%E6%8A%A5%E6%A2%B3%E7%90%86/" style="display:inline-block;margin:5px 8px;padding:4px 12px;background:rgba(25,118,210,0.06);border-radius:4px;font-size:15px">研报梳理<span style="color:#999;font-size:12px;margin-left:4px">(1)</span></a>
+<a href="/tags/%E5%85%89%E7%BA%A4%E9%A2%84%E5%88%B6%E6%A3%92/" style="display:inline-block;margin:5px 8px;padding:4px 12px;background:rgba(25,118,210,0.06);border-radius:4px;font-size:15px">光纤预制棒<span style="color:#999;font-size:12px;margin-left:4px">(1)</span></a>
+<a href="/tags/3D%E6%89%93%E5%8D%B0/" style="display:inline-block;margin:5px 8px;padding:4px 12px;background:rgba(25,118,210,0.06);border-radius:4px;font-size:15px">3D打印<span style="color:#999;font-size:12px;margin-left:4px">(1)</span></a>
+<a href="/tags/%E6%B8%AF%E8%82%A1%E6%8A%98%E4%BB%B7/" style="display:inline-block;margin:5px 8px;padding:4px 12px;background:rgba(25,118,210,0.06);border-radius:4px;font-size:15px">港股折价<span style="color:#999;font-size:12px;margin-left:4px">(1)</span></a>
 <a href="/tags/%E6%B6%B2%E5%86%B7/" style="display:inline-block;margin:5px 8px;padding:4px 12px;background:rgba(25,118,210,0.06);border-radius:4px;font-size:15px">液冷<span style="color:#999;font-size:12px;margin-left:4px">(1)</span></a>
 <a href="/tags/%E8%8B%B9%E6%9E%9C%E4%BA%A7%E4%B8%9A%E9%93%BE/" style="display:inline-block;margin:5px 8px;padding:4px 12px;background:rgba(25,118,210,0.06);border-radius:4px;font-size:15px">苹果产业链<span style="color:#999;font-size:12px;margin-left:4px">(1)</span></a>
 <a href="/tags/%E6%BF%80%E5%85%89%E9%92%BB%E5%AD%94/" style="display:inline-block;margin:5px 8px;padding:4px 12px;background:rgba(25,118,210,0.06);border-radius:4px;font-size:15px">激光钻孔<span style="color:#999;font-size:12px;margin-left:4px">(1)</span></a>

diff --git a/tags/光纤预制棒/index.html b/tags/光纤预制棒/index.html
@@ -1,0 +1,5 @@
+<!DOCTYPE html><html lang="zh-CN"><head><meta charset="utf-8"><meta name="viewport" content="width=device-width,initial-scale=1,viewport-fit=cover"><meta name="theme-color" content="#f8fafc"><meta name="description" content="光纤预制棒"><meta property="og:title" content="光纤预制棒 - zcxGGmu's Blog"><link rel="canonical" href="https://zcxggmu.github.io/tags/%E5%85%89%E7%BA%A4%E9%A2%84%E5%88%B6%E6%A3%92/"><link rel="stylesheet" href="/scss/journal.min.css"><link rel="stylesheet" href="/scss/modern.min.css?v=20260607-sidebar-collapse"><link rel="stylesheet" href="https://fonts.googleapis.com/css2?family=Plus+Jakarta+Sans:wght@400;500;600;700;800&family=Noto+Sans+SC:wght@400;500;700&family=JetBrains+Mono:wght@400;500;600;700&display=swap"><link rel="stylesheet" href="https://fonts.googleapis.com/css?family=Material+Icons&display=swap"><title>光纤预制棒 - zcxGGmu's Blog</title></head><body><div class="stream-container"><div class="post-list-container" style="min-height:100vh"><div style="padding:40px 35px"><h1 style="font-size:30px;font-weight:500;margin-bottom:10px">🏷 光纤预制棒</h1><p style="color:#999;margin-bottom:30px">共 1 篇文章</p><div style="padding:12px 0;border-bottom:1px solid rgba(128,128,128,0.08)">
+        <a href="/2026/ai-pcb-equipment-hans-laser-hans-cnc-investment-logic/" style="font-size:16px;text-decoration:none">AI PCB 设备景气再上修：大族激光、大族数控与 1.6T 光模块的物理瓶颈</a>
+        <span style="color:#999;font-size:13px;margin-left:10px">2026-06-26</span>
+      </div>
+</div></div></div><script src="/js/journal.js"></script></body></html>

diff --git a/tags/研报梳理/index.html b/tags/研报梳理/index.html
@@ -1,0 +1,5 @@
+<!DOCTYPE html><html lang="zh-CN"><head><meta charset="utf-8"><meta name="viewport" content="width=device-width,initial-scale=1,viewport-fit=cover"><meta name="theme-color" content="#f8fafc"><meta name="description" content="研报梳理"><meta property="og:title" content="研报梳理 - zcxGGmu's Blog"><link rel="canonical" href="https://zcxggmu.github.io/tags/%E7%A0%94%E6%8A%A5%E6%A2%B3%E7%90%86/"><link rel="stylesheet" href="/scss/journal.min.css"><link rel="stylesheet" href="/scss/modern.min.css?v=20260607-sidebar-collapse"><link rel="stylesheet" href="https://fonts.googleapis.com/css2?family=Plus+Jakarta+Sans:wght@400;500;600;700;800&family=Noto+Sans+SC:wght@400;500;700&family=JetBrains+Mono:wght@400;500;600;700&display=swap"><link rel="stylesheet" href="https://fonts.googleapis.com/css?family=Material+Icons&display=swap"><title>研报梳理 - zcxGGmu's Blog</title></head><body><div class="stream-container"><div class="post-list-container" style="min-height:100vh"><div style="padding:40px 35px"><h1 style="font-size:30px;font-weight:500;margin-bottom:10px">🏷 研报梳理</h1><p style="color:#999;margin-bottom:30px">共 1 篇文章</p><div style="padding:12px 0;border-bottom:1px solid rgba(128,128,128,0.08)">
+        <a href="/2026/ai-pcb-equipment-hans-laser-hans-cnc-investment-logic/" style="font-size:16px;text-decoration:none">AI PCB 设备景气再上修：大族激光、大族数控与 1.6T 光模块的物理瓶颈</a>
+        <span style="color:#999;font-size:13px;margin-left:10px">2026-06-26</span>
+      </div>
+</div></div></div><script src="/js/journal.js"></script></body></html>

diff --git a/tags/3D打印/index.html b/tags/3D打印/index.html
@@ -1,0 +1,5 @@
+<!DOCTYPE html><html lang="zh-CN"><head><meta charset="utf-8"><meta name="viewport" content="width=device-width,initial-scale=1,viewport-fit=cover"><meta name="theme-color" content="#f8fafc"><meta name="description" content="3D打印"><meta property="og:title" content="3D打印 - zcxGGmu's Blog"><link rel="canonical" href="https://zcxggmu.github.io/tags/3D%E6%89%93%E5%8D%B0/"><link rel="stylesheet" href="/scss/journal.min.css"><link rel="stylesheet" href="/scss/modern.min.css?v=20260607-sidebar-collapse"><link rel="stylesheet" href="https://fonts.googleapis.com/css2?family=Plus+Jakarta+Sans:wght@400;500;600;700;800&family=Noto+Sans+SC:wght@400;500;700&family=JetBrains+Mono:wght@400;500;600;700&display=swap"><link rel="stylesheet" href="https://fonts.googleapis.com/css?family=Material+Icons&display=swap"><title>3D打印 - zcxGGmu's Blog</title></head><body><div class="stream-container"><div class="post-list-container" style="min-height:100vh"><div style="padding:40px 35px"><h1 style="font-size:30px;font-weight:500;margin-bottom:10px">🏷 3D打印</h1><p style="color:#999;margin-bottom:30px">共 1 篇文章</p><div style="padding:12px 0;border-bottom:1px solid rgba(128,128,128,0.08)">
+        <a href="/2026/ai-pcb-equipment-hans-laser-hans-cnc-investment-logic/" style="font-size:16px;text-decoration:none">AI PCB 设备景气再上修：大族激光、大族数控与 1.6T 光模块的物理瓶颈</a>
+        <span style="color:#999;font-size:13px;margin-left:10px">2026-06-26</span>
+      </div>
+</div></div></div><script src="/js/journal.js"></script></body></html>

diff --git a/index.html b/index.html
@@ -104,8 +104,8 @@
         <div class="post-item post-item-no-divider">
           <div class="post-item-info-wrapper">
             <div class="post-item-title">AI PCB 设备景气再上修：大族激光、大族数控与 1.6T 光模块的物理瓶颈</div>
-            <div class="post-item-summary">当市场追逐大模型和 GPU 时，真正决定算力能否落地的物理瓶颈，正在转向 AI PCB、类载板和超快激光钻孔设备。大族数控的利润结构重构、大族激光的 AI+苹果+液冷三重催化，以及 H 股折价修复，是这条交易主线的核心。</div>
-            <div class="post-item-meta">2026-06-26&nbsp;&nbsp;<span class="meta-icon" aria-hidden="true">◷</span> 16 min&nbsp;&nbsp;</div>
+            <div class="post-item-summary">当市场追逐大模型和 GPU 时，真正决定算力能否落地的物理瓶颈，正在转向 AI PCB、类载板和超快激光钻孔设备。大族数控的利润结构重构、大族激光的 AI+苹果+液冷三重催化，以及大族激光经营修复、机构上修和估值约束，是这条交易主线的核心。</div>
+            <div class="post-item-meta">2026-06-26&nbsp;&nbsp;<span class="meta-icon" aria-hidden="true">◷</span> 28 min&nbsp;&nbsp;</div>
           </div>
           <div class="post-item-image-wrapper"><div class="post-item-image" style="background-image:url('/images/posts/ai-pcb-equipment-hans-laser-hans-cnc-investment-logic/cover.png')"></div></div>
         </div>
